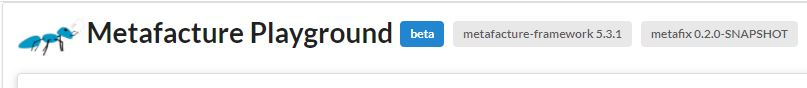
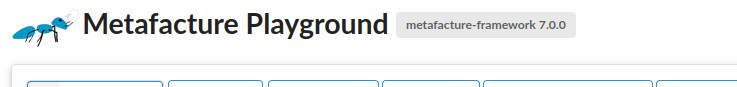
Bump metafacture-core dependency to 7.0.0 (#221)

diff --git a/README.md b/README.md
@@ -142,16 +142,15 @@ Browse to http://localhost:3000.
 
 ### Show dependency versions in UI
 
-When installing the Metafacture Playground to a server it's important for users to know which version of Metafacture Core and Metafacture Fix are used to process the workflows in the playground.
+When installing the Metafacture Playground to a server it's important for users to know which version of Metafacture Core is used to process the workflows in the playground.
 
-![Display versions of dependencies](/resources/img/displayVersions.JPG)
+![Display version of dependency](/resources/img/displayVersions.JPG)
 
-To display these versions (or any other dependency of the playground) you have to put a file with the corresponding dependency name into the folder ```resources/versions```, e.g. the dependency of Metafacture Fix is named ```org.metafacture/metafix``` in the project.clj, so we need a file named ```metafix``` in the folder ```resources/versions``` to display the version used in the project.clj in the UI.
-The content of this file is a URI that should link to the corresponding version or branch commit and should be adapted manually. In the future the content of these files should be adapted automatically when installing Metafacture Fix or Metafacture Core on the server where the playground is running.
-To display the Metafacture Core dependency we use ```org.metafacture/metafacture-framework```.
+To display the version (or any other dependency of the playground) you have to put the file with the corresponding dependency name into the folder ```resources/versions```, e.g. the dependency of Metafacture Core is named ```org.metafacture/metafacture-framework``` in the project.clj, so we need a file named ```metafacture-framework``` in the folder ```resources/versions``` to display the version used in the project.clj in the UI.
+The content of this file is a URI that should link to the corresponding version or branch commit and should be adapted manually. In the future the content of these files should be adapted automatically when installing Metafacture Core on the server where the playground is running.
 
 #### Use a release version
-If a released version is used, the content of the file contains the link to the release, e.g. [https://github.com/metafacture/metafacture-core/releases/tag/metafacture-core-5.3.1](https://github.com/metafacture/metafacture-core/releases/tag/metafacture-core-5.3.1).
+If a released version is used, the content of the file contains the link to the release, e.g. [https://github.com/metafacture/metafacture-core/releases/tag/metafacture-core-7.0.0](https://github.com/metafacture/metafacture-core/releases/tag/metafacture-core-7.0.0).
 
 #### Use Master/Main or other branch
 If the master/main or another branch is used, the content of the file should contain a link to the commit like [https://github.com/metafacture/metafacture-fix/commit/b36fcb9](https://github.com/metafacture/metafacture-fix/commit/b36fcb9) (Please use the short hash link).
